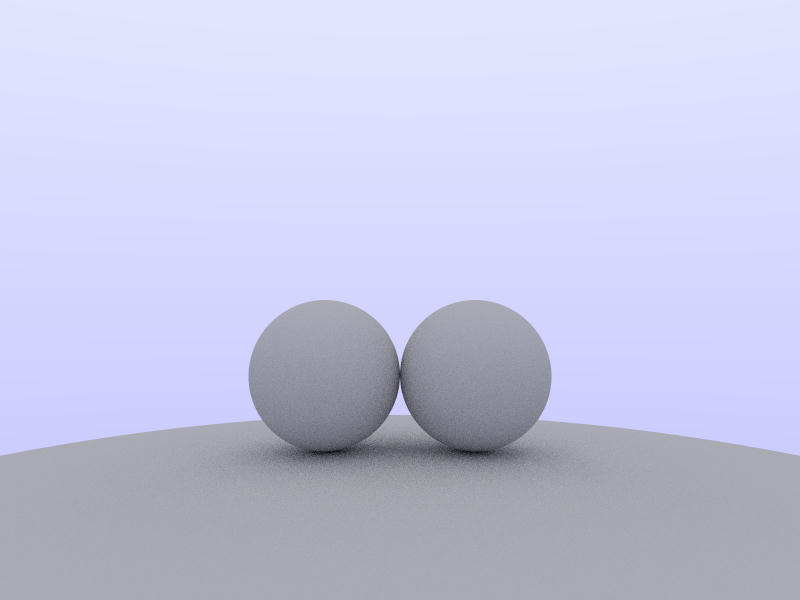
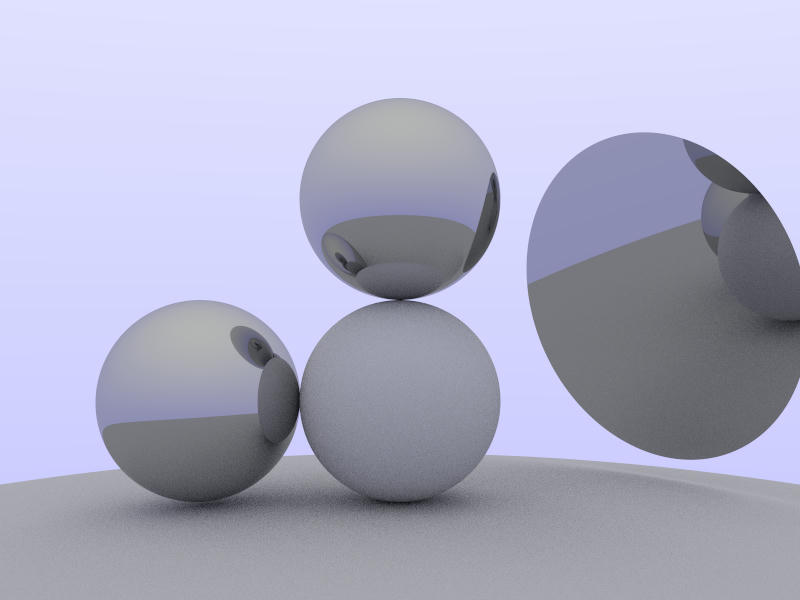
Add metallic material and thin disc.

diff --git a/src/shapes.rs b/src/shapes.rs
@@ -5,14 +5,14 @@ const K_EPSILON:f64=0.00001;
 pub struct Plane<'a>{
         ///A point on the plane
         a:Point3D,
-        ///A Normal to the plane
+        ///A normalised Normal to the plane
         n:Normal3D,
         material:&'a Material,
 }
 
 impl<'a> Plane<'a>{
         pub fn new(a: Point3D, n: Normal3D,material:&'a Material) -> Self {
-                Plane { a, n ,material}
+                Plane { a, n:n.normalize() ,material}
         }
 }
 
@@ -68,7 +68,8 @@ impl<'a> GeometricObject for Sphere<'a> {
                                 let normal = hitpoint - self.c;
                                 //dbg!(normal);
                                 return Some(HitInfo::new(t1,
-                                                         Normal3D::from(normal), hitpoint));
+                                                         Normal3D::from(normal).normalize()
+                                                         , hitpoint));
                         }
                         let t2 = (-b + discriminant.sqrt()) / 2.0 * a; //larger
 
@@ -76,7 +77,7 @@ impl<'a> GeometricObject for Sphere<'a> {
                                 let hitpoint = ray.get_point_at(t2);
                                 let normal = hitpoint - self.c;
                                 return Some(HitInfo::new(t2,
-                                                         Normal3D::from(normal),
+                                                         Normal3D::from(normal).normalize(),
                                                          hitpoint));
                         } else {
                                 //Both t1 and t2 are negative or 0
@@ -90,3 +91,38 @@ impl<'a> GeometricObject for Sphere<'a> {
         }
 }
 
+pub struct ThinDisc<'a>{
+        ///Center of the disc
+        c:Point3D,
+        ///A normalised Normal to the disc
+        n:Normal3D,
+        ///Radius of disk
+        r:f64,
+        material:&'a Material,
+}
+
+impl<'a> ThinDisc<'a>{
+        pub fn new(c: Point3D,r:f64,n: Normal3D,material:&'a Material) -> Self {
+                ThinDisc { c, n:n.normalize(),r,material}
+        }
+}
+
+impl<'a> GeometricObject for ThinDisc<'a> {
+        fn check_hit(&self, ray: &Ray) -> Option<HitInfo> {
+                let plane=Plane::new(self.c,self.n,self.material);
+                match plane.check_hit(ray){
+                        Some(hitinfo)=>{
+                                let hitpoint=*hitinfo.get_hitpoint();
+                                let distance_from_center_sqr=(hitpoint-self.c)*(hitpoint-self.c);
+                                if distance_from_center_sqr<=self.r*self.r{
+                                        Some(hitinfo)
+                                }else {None}
+                        },
+                        None=>None
+                }
+        }
+
+        fn get_material(&self) -> &Material {
+                self.material
+        }
+}

diff --git a/src/main.rs b/src/main.rs
@@ -7,25 +7,32 @@ use self::shapes::*;
 use self::tracer::*;
 
 fn main() {
-        let material=LambertianMaterial::new(0.5);
+        let metallic=MetallicMaterial::new(0.5);
+        let diffuse=LambertianMaterial::new(0.5);
     {
-        let sphere = Sphere::new(Point3D::new(-1.0, -1.0, 0.0), 1.0,
-                                 &material);
-
-        let sphere2 = Sphere::new(Point3D::new(000.0, -42.0, 0.0), 40.0,
-                                  &material);
-        let sphere3 = Sphere::new(Point3D::new(1.0, -1.0, 0.0), 1.0,
-                                  &material);
+        let sphere = Sphere::new(Point3D::new(-2.0, -1.0, 0.0), 1.0,
+                                 &metallic);
+        let sphere2 = Sphere::new(Point3D::new(0.0, 1.0, -0.0), 1.0,
+                                  &metallic);
+        let sphere3 = Sphere::new(Point3D::new(-0.0, -1.0, 0.0), 1.0,
+                                  &diffuse);
+        let sphere4 = Sphere::new(Point3D::new(0.0, -42.0, 0.0), 40.0,
+                                  &diffuse);
+        let disc=ThinDisc::new(Point3D::new(3.0,0.0,-2.0),2.0,
+                                    Normal3D::new(-1.0,-0.3,0.8),&metallic);
         let plane = Plane::new(Point3D::new(0.0, -2.0, 0.0),
                                Normal3D::new(0.0, 1.0, 0.0),
-                               &material);
+                               &metallic);
 
-        let mut world = World::new(ViewPlane::new(800, 600, 1.0 / 150.0),
+        let mut world = World::new(ViewPlane::new(800, 600, 1.0 / 200.0),
                                    RGBColor::new(1.0, 1.0, 1.0));
         world.get_objects_mut().push(Box::new(sphere));
         //world.get_objects_mut().push(Box::new(plane));
         world.get_objects_mut().push(Box::new(sphere2));
         world.get_objects_mut().push(Box::new(sphere3));
+        world.get_objects_mut().push(Box::new(sphere4));
+        world.get_objects_mut().push(Box::new(disc));
+
         let tracer = SimpleTracer::new();
 
         tracer.render(&world).save("./img.jpeg").unwrap();

diff --git a/src/tracer.rs b/src/tracer.rs
@@ -13,6 +13,9 @@ impl SimpleTracer {
 
     pub fn render(&self, world: &World) -> DynamicImage {
         let z_plane = 5.0;
+        let samples:f64=81.0;
+        let samples_sqrt=samples.sqrt() as u32;
+
         let mut img =
             DynamicImage::new_rgb8(world.get_view_plane().get_hres(), world.get_view_plane().get_vres());
 
@@ -25,8 +28,6 @@ impl SimpleTracer {
             println!("Completed: {}%",((y+vres as i32/2)*100)/vres as i32);
             for x in -((hres/ 2) as i32)..(hres/ 2) as i32 {
                 let mut avg_color=RGBColor::new(0.0,0.0,0.0);
-                let samples:f64=49.0;
-                let samples_sqrt=samples.sqrt() as u32;
                 let sub_pixel_size=pixel_size/samples_sqrt as f64;
                 for p in 0..samples_sqrt{
                     for q in 0..samples_sqrt {
@@ -40,7 +41,7 @@ impl SimpleTracer {
                         let ray = Ray::new(Point3D::new(in_world_x, in_world_y, z_plane),
                                            //Vector3D::new(0.0,0.0,-1.0));
                                            ray_direction.normalize());
-                        let pixel_color = self.trace_ray(&ray, &world,500000);
+                        let pixel_color = self.trace_ray(&ray, &world,20);
                         avg_color.r += pixel_color.r;
                         avg_color.g += pixel_color.g;
                         avg_color.b += pixel_color.b;
@@ -76,7 +77,7 @@ impl SimpleTracer {
         match min_hitinfo {
             Some(hit_info)=> {
                 if depth==0 {
-                    let normal = hit_info.get_normal().normalize();
+                    let normal = hit_info.get_normal();
                     RGBColor::new((normal.x() + 1.0) / 2.0,
                                   (normal.y() + 1.0) / 2.0,
                                   (normal.z() + 1.0) / 2.0)

diff --git a/src/graphics/mod.rs b/src/graphics/mod.rs
@@ -34,6 +34,7 @@ pub trait GeometricObject{
 pub struct HitInfo{
     ///Lowest value of ray parameter t which intersects Hittable object
     tmin:f64,
+    ///The normalised normal
     normal:Normal3D,
     hitpoint:Point3D
 }
@@ -84,4 +85,28 @@ impl Material for LambertianMaterial{
         (Ray::new(hit_point.clone(),ray_out),self.albedo)
     }
 }
+
+
+
+pub struct MetallicMaterial{
+    albedo:f64,
+}
+
+impl MetallicMaterial {
+    pub fn new(albedo:f64) -> Self {
+        MetallicMaterial { albedo }
+    }
+
+}
+
+impl Material for MetallicMaterial{
+    fn process(&self,ray_in:&Ray,hit_info:&HitInfo)->(Ray,f64){
+        let hit_point=hit_info.get_hitpoint();
+        //Reflect
+        let new_dir=ray_in.d-Vector3D::from(hit_info.normal)*(ray_in.d*hit_info.normal)*2.0;
+
+        (Ray::new(hit_point.clone(),new_dir),self.albedo)
+    }
+}
+
 
